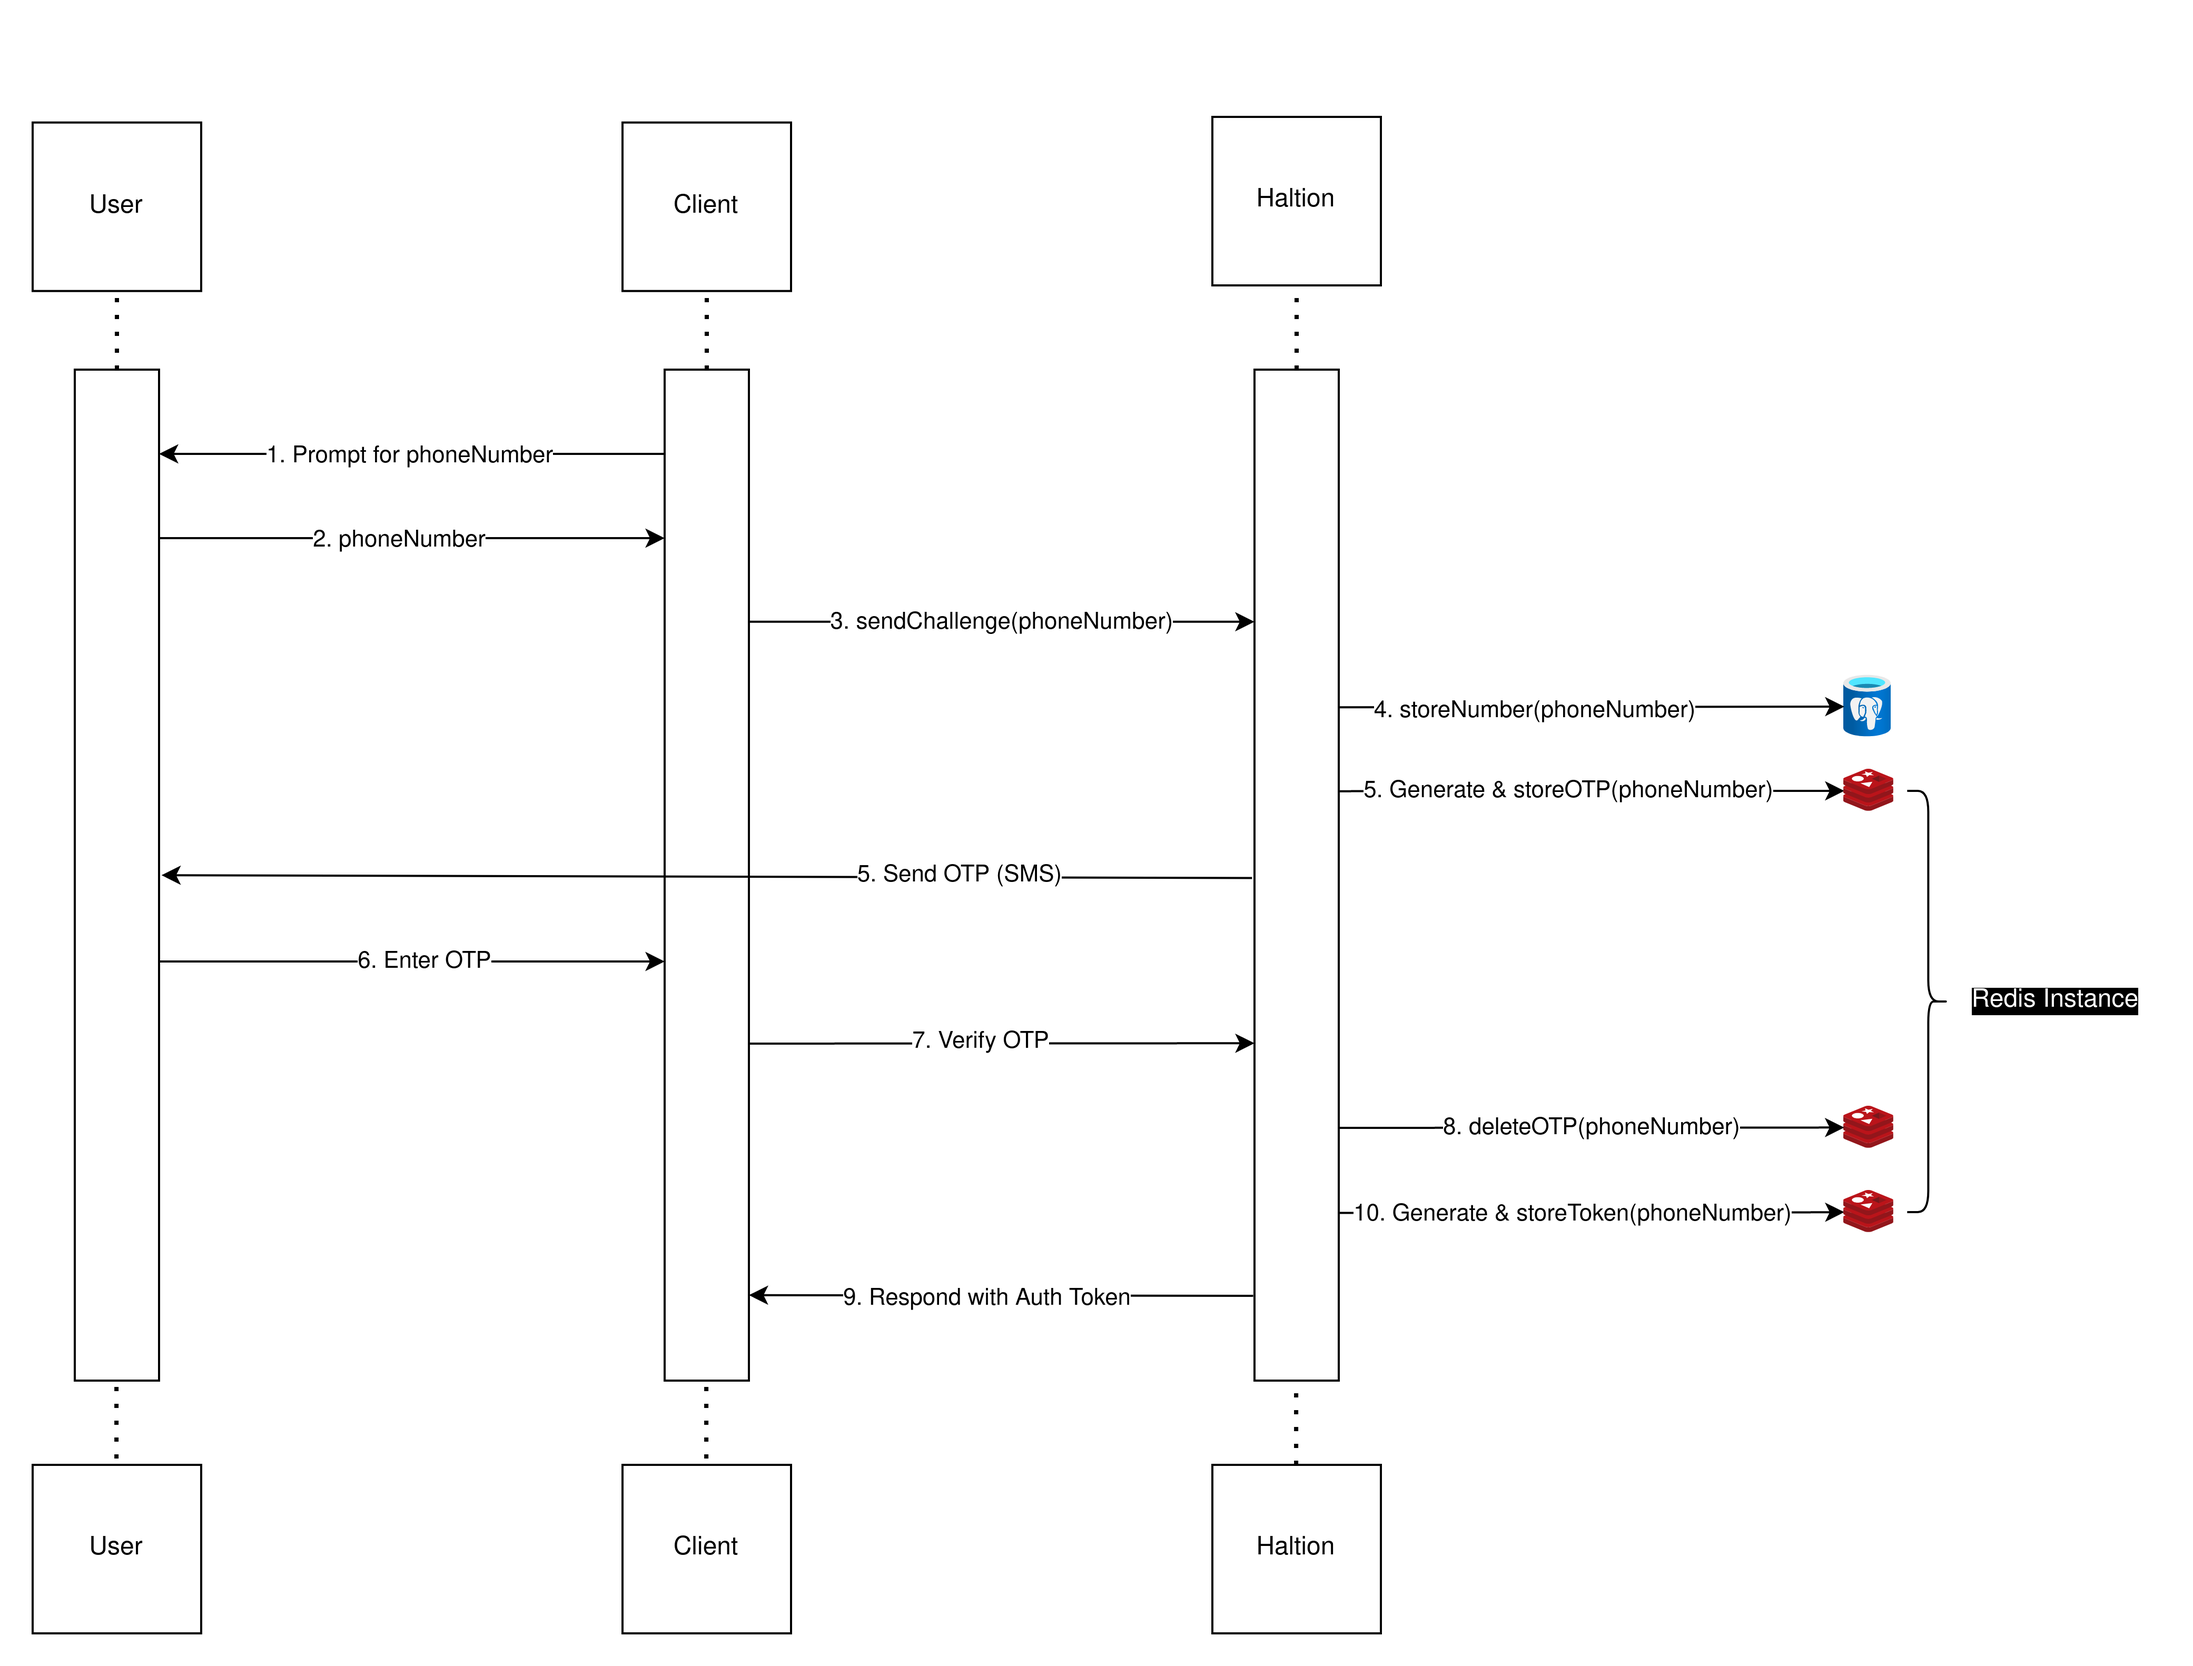
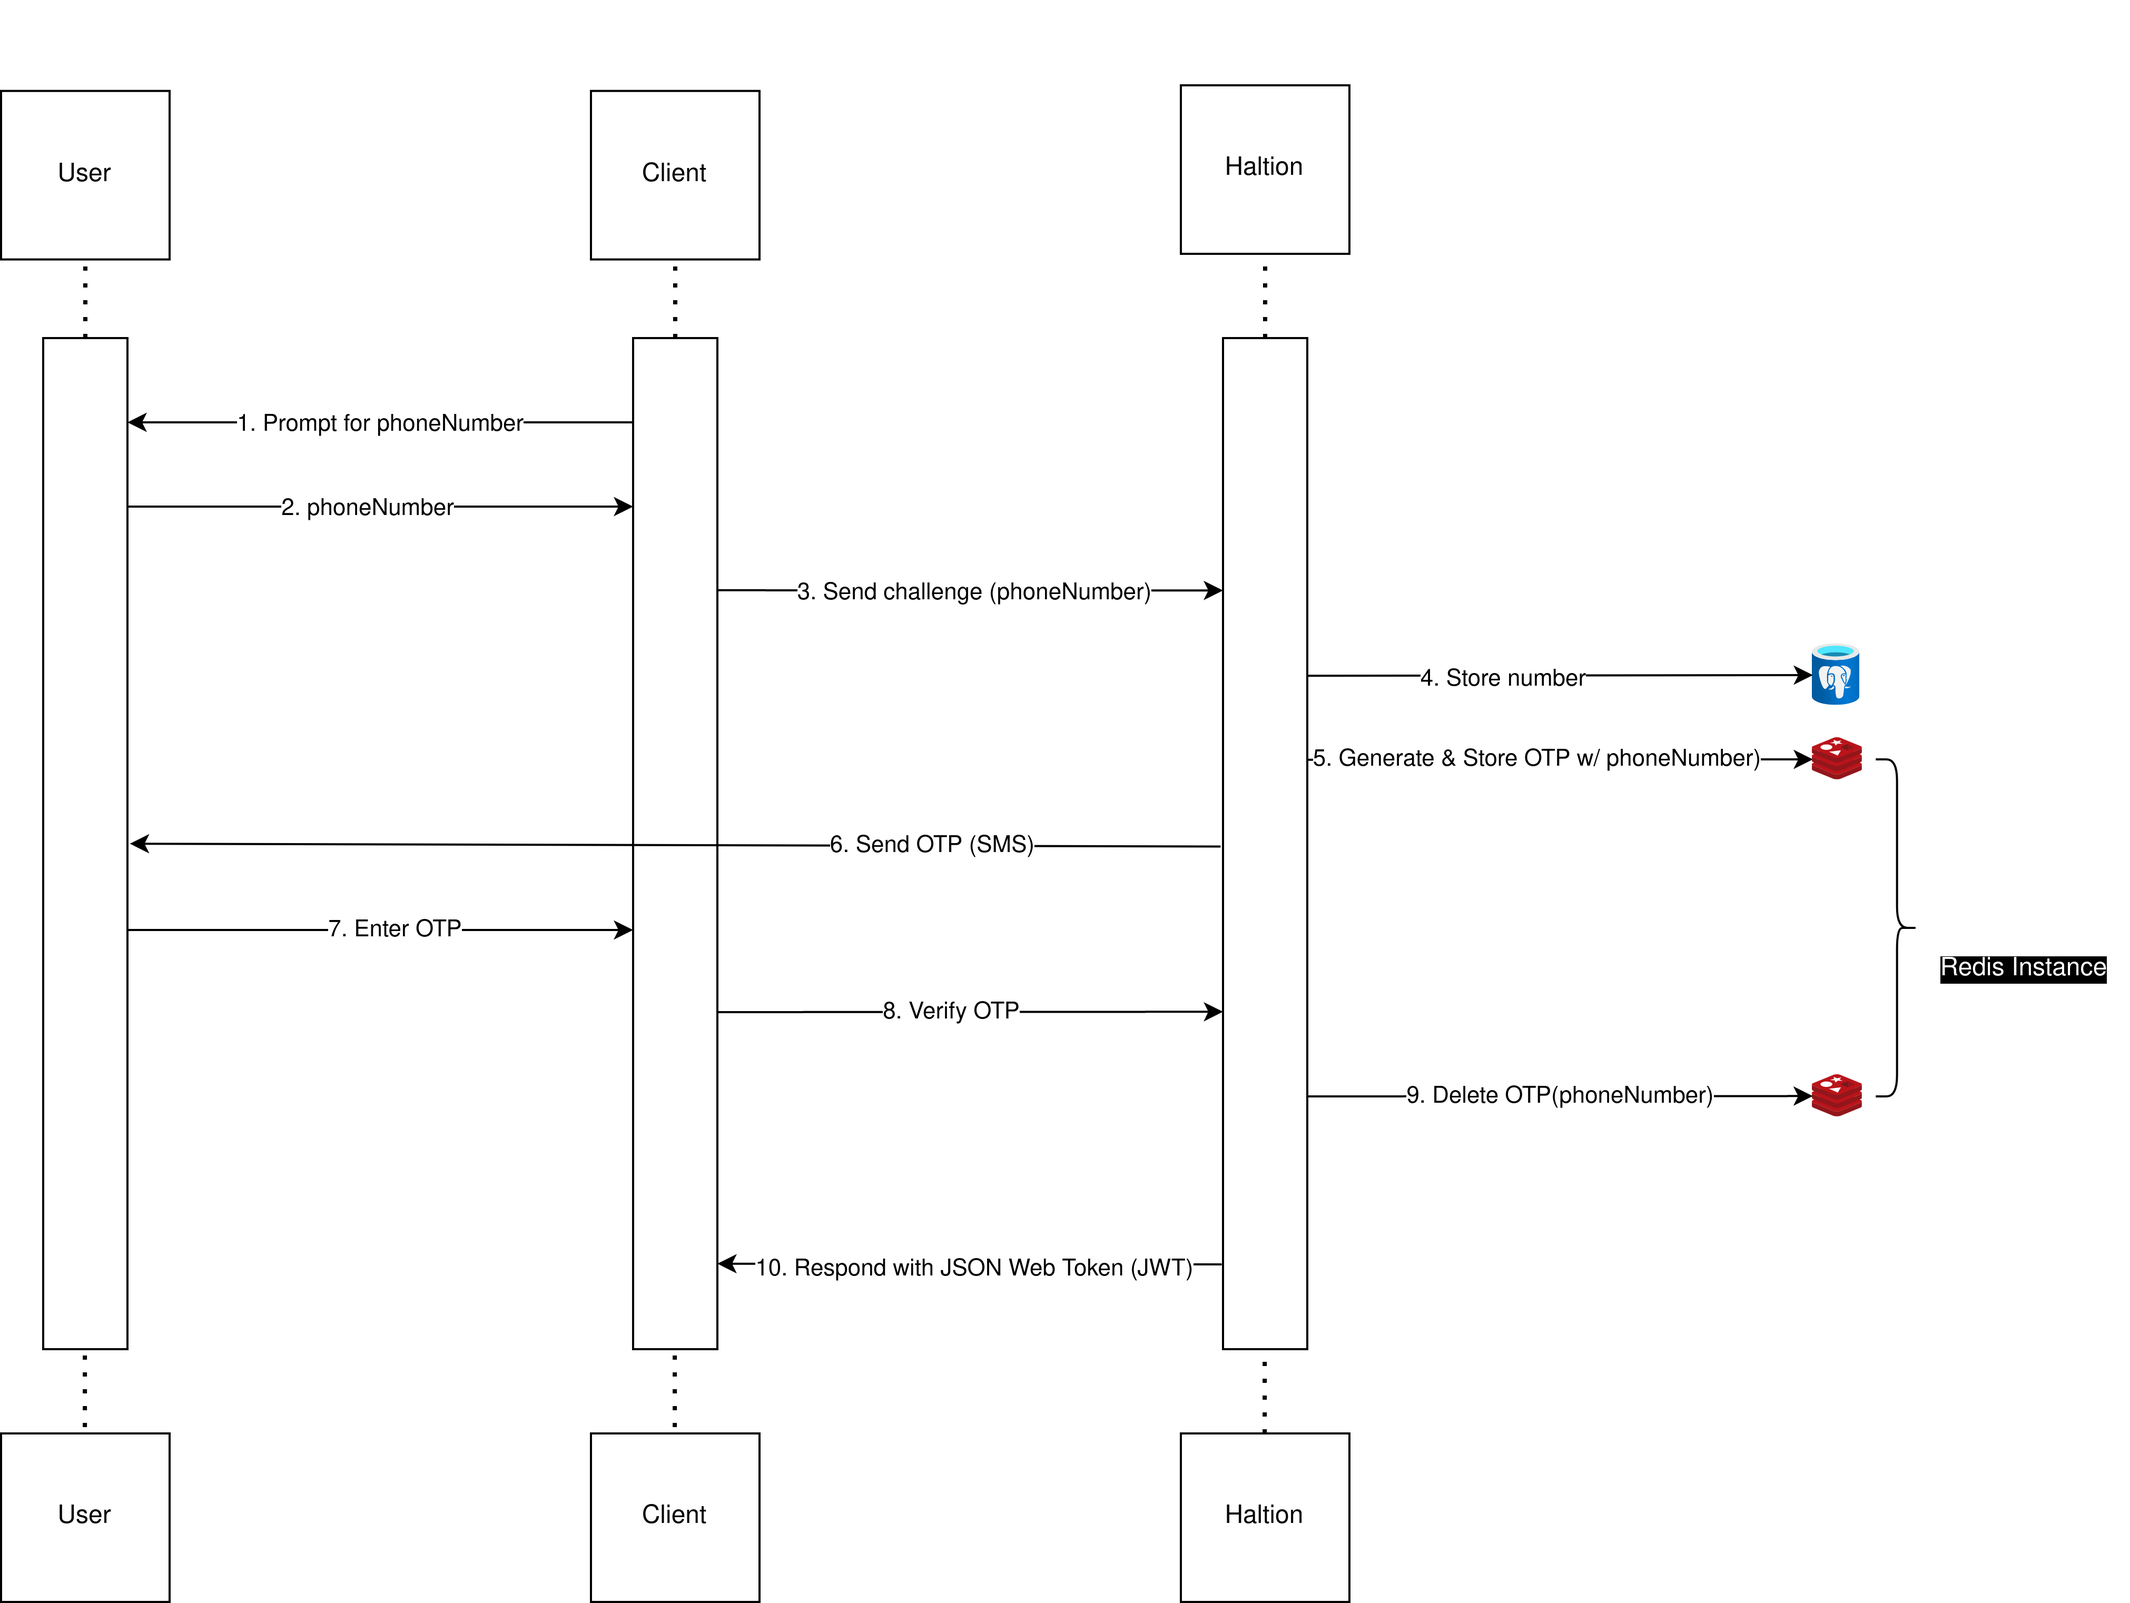
docs: update auth implementation docs

diff --git a/docs/README.md b/docs/README.md
@@ -7,3 +7,11 @@ The OTP implementation is based on the Time-based One-Time Password (TOTP) algor
 ![OTP Implementation](./haltion-otp-flow.png)
 
 > The diagram only serves as an example. In the real world, you might have a gateway or an edge router in front of Haltion.
+
+### Authentication
+
+Authentication is based on JSON Web Tokens (JWT). The JWT is generated using the [jsonwebtoken](https://crates.io/crates/jsonwebtoken) crate.
+
+![JWT Integration](./haltion-jwt-flow.png)
+
+When a client sends a request, the server checks the JWT claims. If the JWT is valid, the server approves the request with a 200 OK response. If it's invalid, the server denies access with a 401 Unauthorized response.
